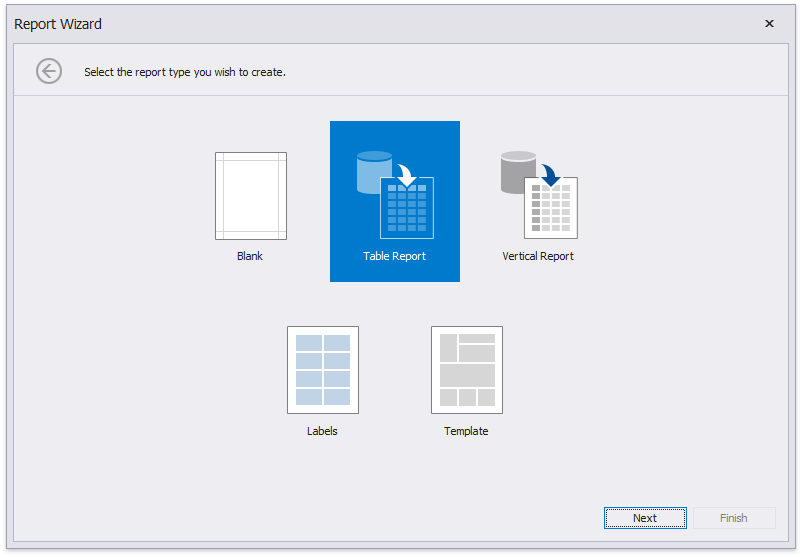
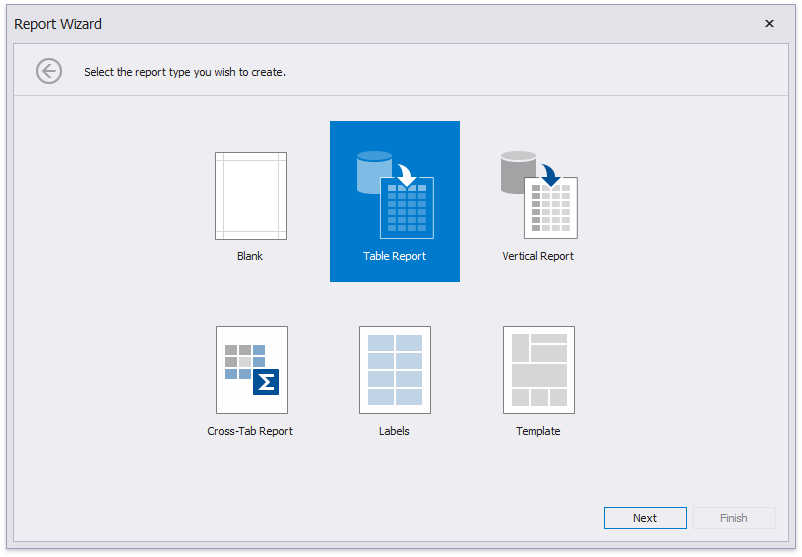
Describe Cross-Tab Report Wizard

diff --git a/interface-elements-for-desktop/articles/report-designer/report-designer-for-winforms/report-designer-tools/report-wizard.md b/interface-elements-for-desktop/articles/report-designer/report-designer-for-winforms/report-designer-tools/report-wizard.md
@@ -6,21 +6,29 @@ owner: Mary Sammal
 
 The Report Wizard allows you to add a report using one of the following templates:
 
-* [Blank](report-wizard\blank-report.md)
-	
+* [Blank](report-wizard/blank-report.md)
+
 	Creates a new blank report that is not bound to a data source. Choose this option to design your report without using the wizard.
-* [Table Report](report-wizard\table-report.md)
-	
-	Allows you to create a [table report](..\create-popular-reports\create-a-table-report.md), connect it to a data source and configure basic report layout settings.
-* [Vertical Report](report-wizard\vertical-report.md)
-	
-	Allows you to create a [vertical report](../create-popular-reports/create-a-vertical-report.md), connect it to a data source and configure basic report layout settings.	    
-* [Template](report-wizard\template.md)
-	
-	Enables you to create a new report based on available predefined templates.
-* [Labels](report-wizard\labels.md)
-	
+
+* [Table Report](report-wizard/table-report.md)
+
+	Allows you to create a [table report](../create-popular-reports/create-a-table-report.md), connect it to a data source and configure basic report layout settings.
+
+* [Vertical Report](report-wizard/vertical-report.md)
+
+	Allows you to create a [vertical report](../create-popular-reports/create-a-vertical-report.md), connect it to a data source and configure basic report layout settings.
+
+* [Cross-Tab Report](report-wizard/cross-tab-report.md)
+
+	Allows you to create a [cross-tab report](../create-popular-reports/create-a-cross-tab-report.md), connect it to a data source and configure basic report layout settings.
+
+* [Labels](report-wizard/labels.md)
+
 	Allows you to select from different customizable layouts to create labels, badges or price tags.
+
+* [Template](report-wizard/template.md)
+
+	Enables you to create a new report based on available predefined templates.
 
 ![eurd-win-report-wizard](../../../../images/eurd-ReportWizard-ChooseReportType-TableReport.png)
 

diff --git a/interface-elements-for-desktop/articles/report-designer/report-designer-for-winforms/report-designer-tools/report-wizard/cross-tab-report.md b/interface-elements-for-desktop/articles/report-designer/report-designer-for-winforms/report-designer-tools/report-wizard/cross-tab-report.md
@@ -1,0 +1,35 @@
+---
+title: Cross-Tab Report
+---
+# Cross-Tab Report
+
+Select **Cross-Tab Report** on the start wizard page to create a [cross-tab report](../../create-popular-reports/create-a-cross-tab-report.md) that displays multi-dimensional data.
+
+![](../../../../../images/eurd-win-cross-tab-report-wizard-select-report-type.png)
+
+Click **Next** and use the [Data Source Wizard](../data-source-wizard.md) to set up a report's data source.
+
+Once the data source is configured, you can define the report's layout on the next page. Drop data fields onto the following cross-tab area:
+
+* **Rows** - defines row headers;
+* **Columns** - defines column headers;
+* **Data** - defines fields against which to calculate summaries.
+
+![](../../../../../images/eurd-win-cross-tab-report-wizard-drop-fields.png)
+
+You can also select a data field from the corresponding drop-down list.
+
+![](../../../../../images/eurd-win-cross-tab-report-wizard-drop-down-list.png)
+
+> [!Note]
+> The field order defines the hierarchy in the resulting cross-tab report. The higher the field on the list, the higher the level in the field hierarchy.
+
+You can click **Finish** to stop the Report Wizard. If you wan to customize the report further, click **Next** and proceed to the next pages:
+
+* [Specify Report Page Settings](table-report/specify-report-page-settings.md)
+* [Choose a Report Color Scheme](table-report/choose-a-report-color-scheme.md)
+* [Set the Report Title](table-report/set-the-report-title.md)
+
+The generated report contains the [Cross Tab](../../use-report-elements/use-cross-tabs.md) control that is configured based on the specified settings. The XRCrossTab control calculates automatic totals and grand totals across row and column fields.
+
+![](../../../../../images/eurd-win-report-wizard-cross-tab-result.png)
